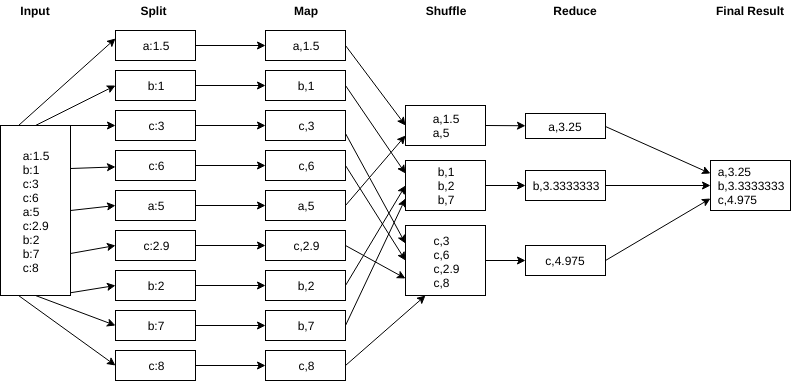
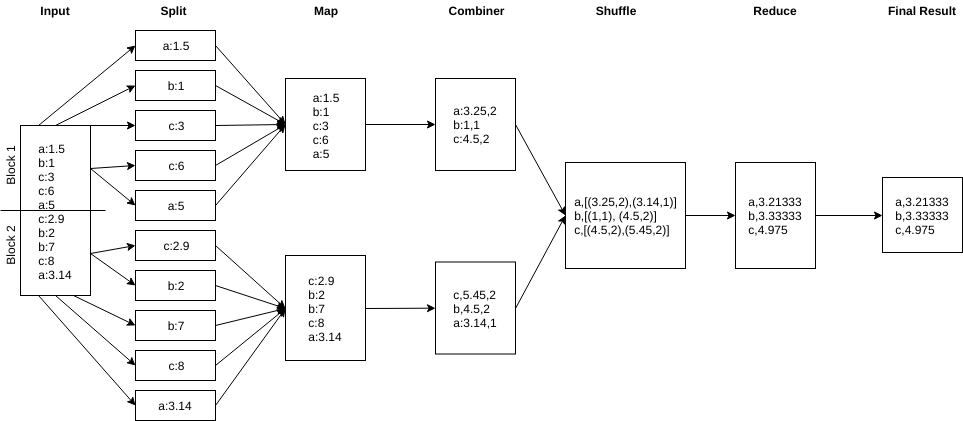
Modifed part 2 of lab 1

diff --git a/Lab/1/counting_and_summing/src/main/java/CountingAndSumming.java b/Lab/1/counting_and_summing/src/main/java/CountingAndSumming.java
@@ -1,6 +1,5 @@
 import org.apache.hadoop.conf.Configuration;
 import org.apache.hadoop.fs.Path;
-import org.apache.hadoop.io.FloatWritable;
 import org.apache.hadoop.io.Text;
 
 import org.apache.hadoop.mapreduce.Job;
@@ -16,42 +15,68 @@ import java.util.StringTokenizer;
  * Lab 1 part 2: compute average time
  *
  * @author Yong Zheng
- * @since 2018-09-02
+ * @since 2018-09-04
  */
 
 public class CountingAndSumming {
     /**
      * Mapper class
      */
-    public static class Map extends Mapper<Object, Text, Text, FloatWritable> {
+    public static class Map extends Mapper<Object, Text, Text, Text> {
         public void map(Object key, Text value, Context context) throws IOException, InterruptedException {
             StringTokenizer st = new StringTokenizer(value.toString());
             String token = null;
             String[] lines = null;
-            // Split line with ':': left part is the name (key) and right part is the time
+            // Split line with with string ":': left part is the name (key) and right part is the time
             while (st.hasMoreTokens()) {
                 token = st.nextToken();
                 lines = token.split(":");
                 // Emit
-                context.write(new Text(lines[0]), new FloatWritable(Float.parseFloat(lines[1])));
+                context.write(new Text(lines[0]), new Text(lines[1]));
             }
+        }
+    }
+
+    /**
+     * Combiner class
+     */
+    public static class Combine extends Reducer<Text, Text, Text, Text> {
+        public void reduce(Text key, Iterable<Text> values, Context context) throws IOException, InterruptedException {
+            Integer count = 0;
+            Double sum = 0.0;
+            // Sum up all values for the same key
+            for (Text val : values) {
+                count++;
+                sum += Double.parseDouble(val.toString());
+            }
+            // Calculate average
+            Double average = sum / count;
+            // Emit with (key, [average, count])
+            context.write(new Text(key), new Text(average + "," + count));
         }
     }
 
     /**
      * Reducer class
      */
-    public static class Reduce extends Reducer<Text, FloatWritable, Text, FloatWritable> {
-        public void reduce(Text key, Iterable<FloatWritable> values, Context context) throws IOException, InterruptedException {
-            int count = 0;
-            float sum = 0;
+    public static class Reduce extends Reducer<Text, Text, Text, Text> {
+        public void reduce(Text key, Iterable<Text> values, Context context) throws IOException, InterruptedException {
+            Integer totalCount = 0;
+            Double sum = 0.0;
+            String[] lines = null;
             // Sum up all value inside values
-            for (FloatWritable val : values) {
-                sum += val.get();
-                count++;
+            for (Text val : values) {
+                // Split line with with string ",': left part is the average and right part is the count
+                lines = val.toString().split(",");
+                Double average = Double.parseDouble(lines[0]);
+                Integer count = Integer.parseInt(lines[1]);
+                sum += average * count;
+                totalCount += count;
             }
+            // Calculate average
+            Double finalAverage = sum / totalCount;
             // Emit the average time
-            context.write(key, new FloatWritable(sum / count));
+            context.write(key, new Text(finalAverage.toString()));
         }
     }
 
@@ -64,10 +89,11 @@ public class CountingAndSumming {
 
         job.setJarByClass(CountingAndSumming.class);
         job.setMapperClass(Map.class);
+        job.setCombinerClass(Combine.class);
         job.setReducerClass(Reduce.class);
 
         job.setOutputKeyClass(Text.class);
-        job.setOutputValueClass(FloatWritable.class);
+        job.setOutputValueClass(Text.class);
 
         FileInputFormat.addInputPath(job, new Path(args[0]));
         FileOutputFormat.setOutputPath(job, new Path(args[1]));
